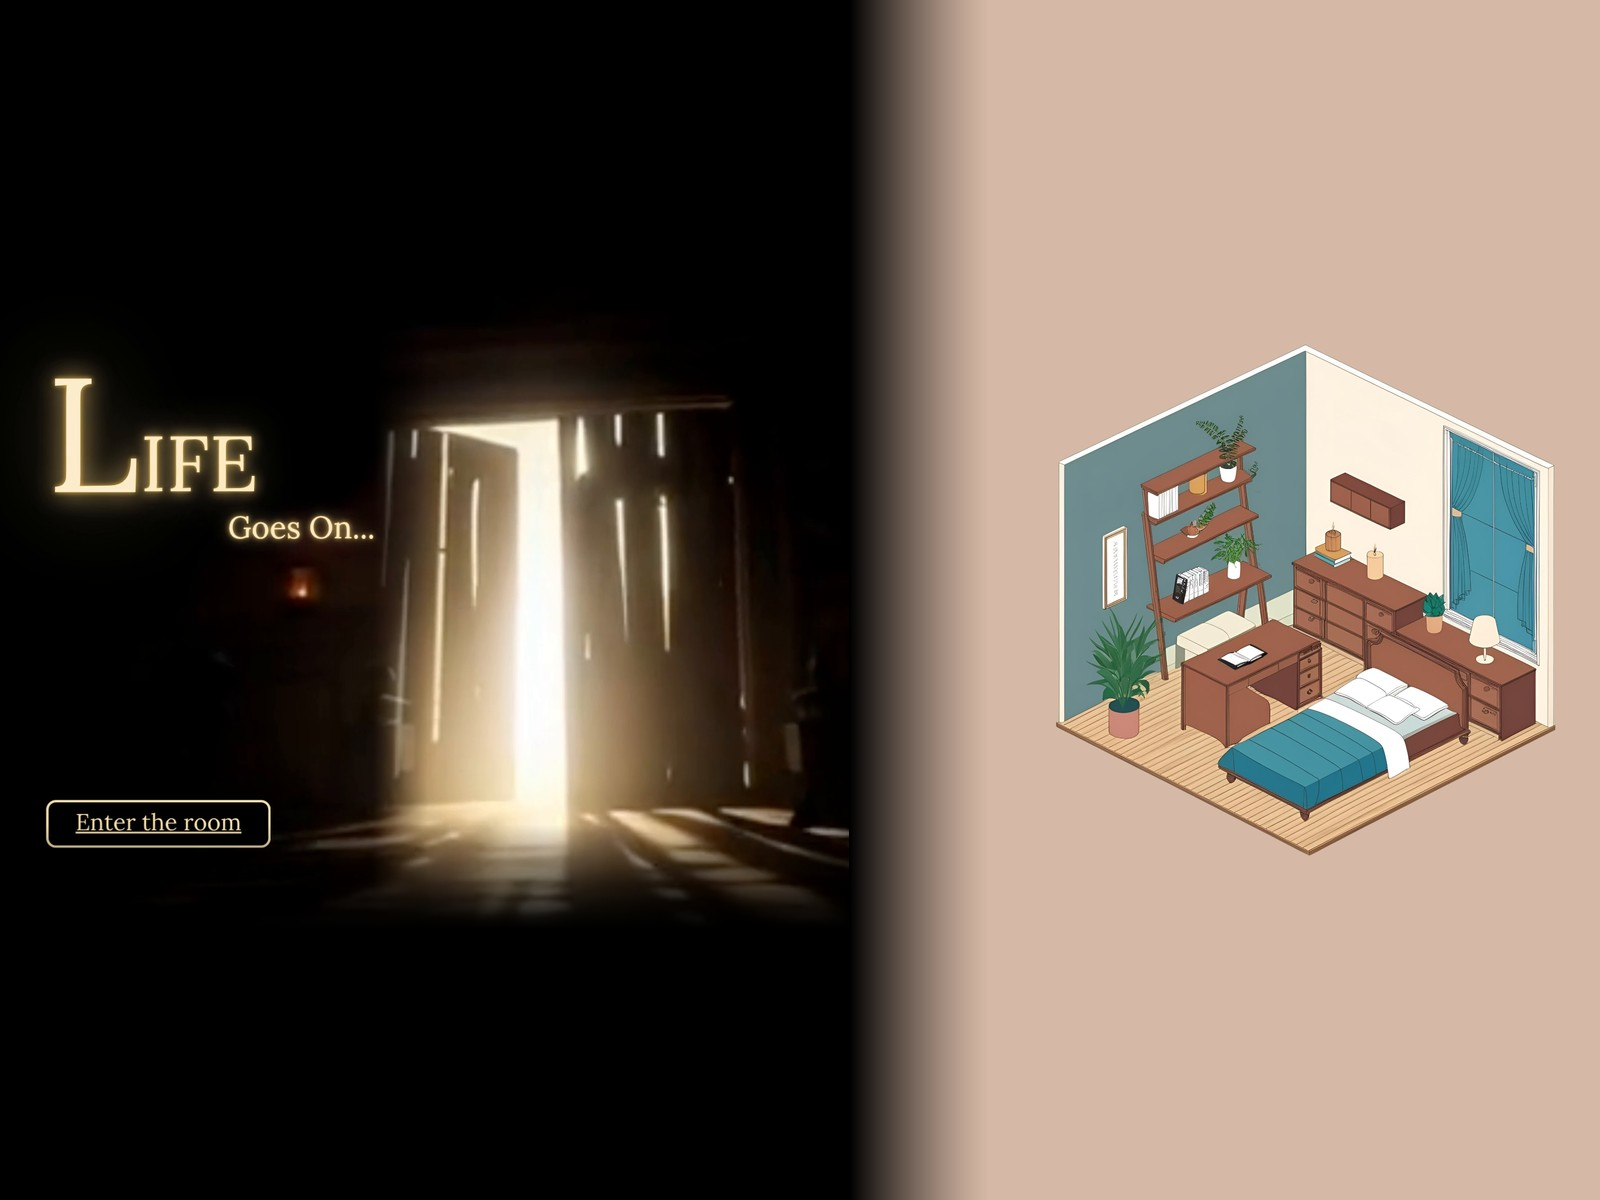
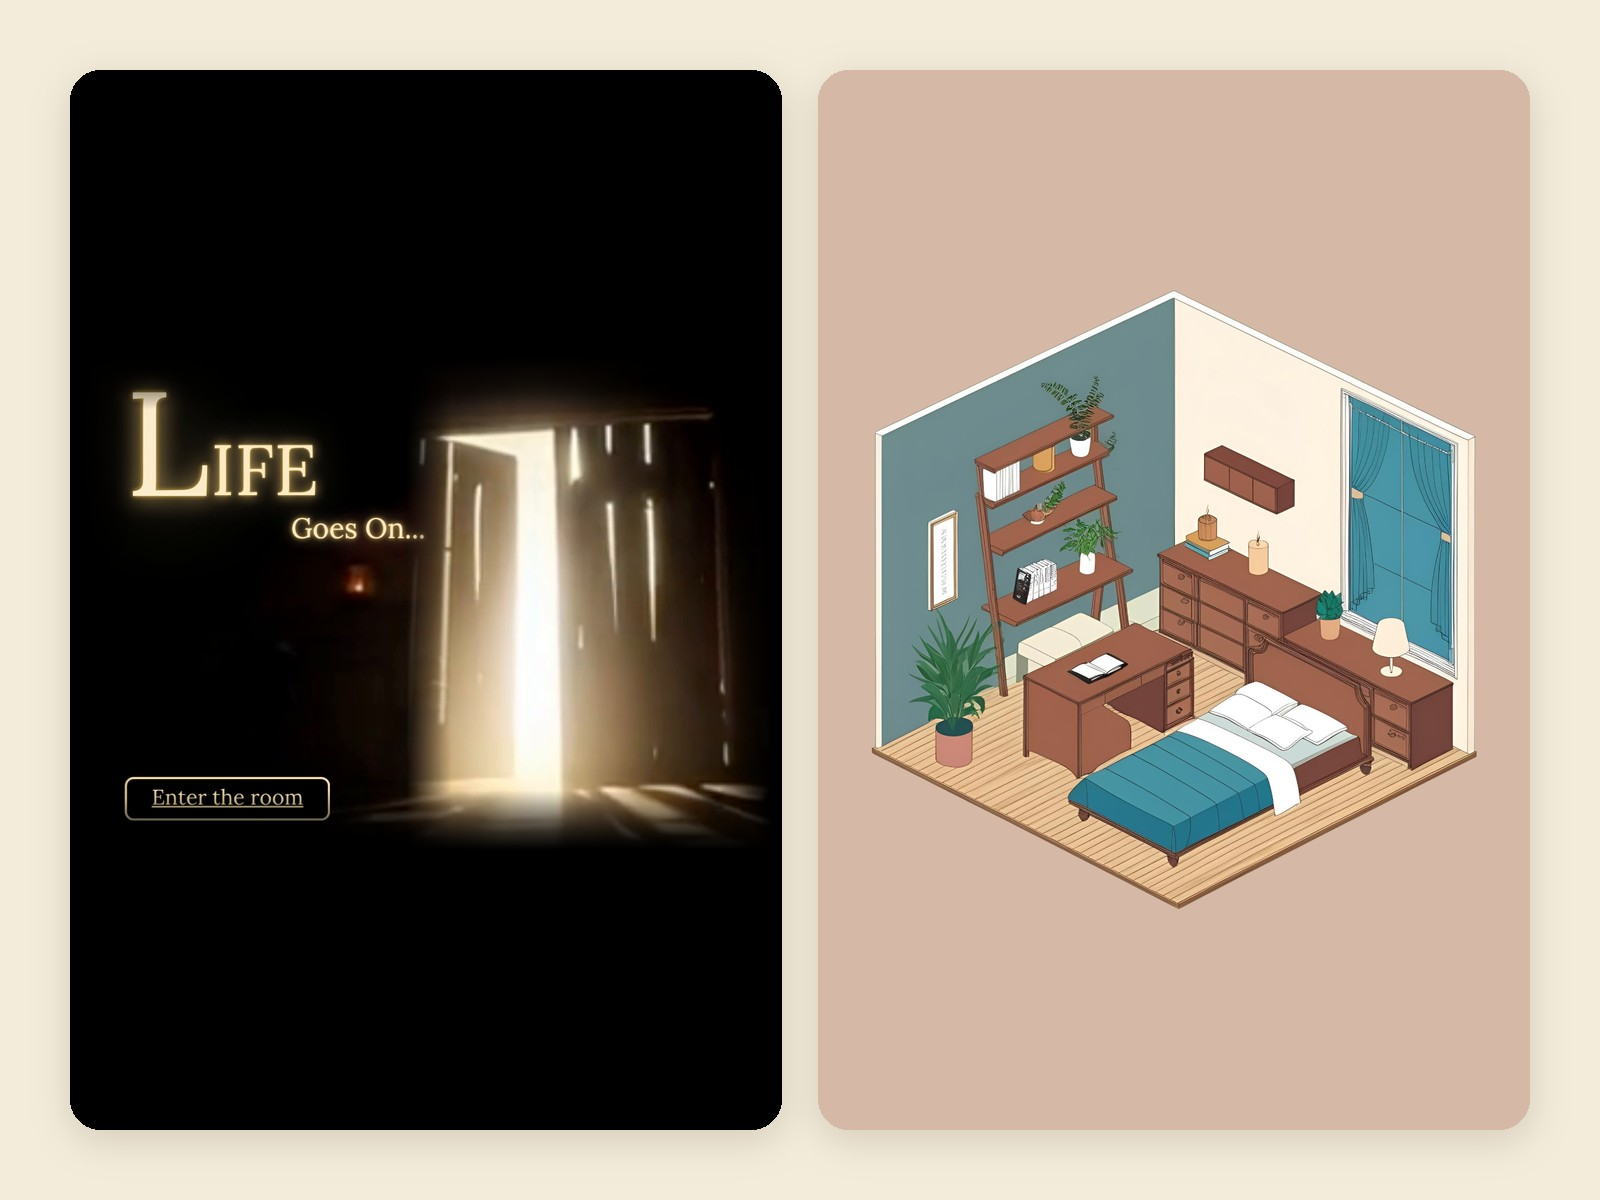
Life Goes On: cover as two clean panels, door of light and clean room
Claude-Session: https://claude.ai/code/session_01X2ebubxArhvCF8kViDJReJ

diff --git a/CLAUDE.md b/CLAUDE.md
@@ -207,7 +207,8 @@ Placeholder projects (all featured), covers in `src/assets/projects/<slug>/cover
    has a subscription; exported files stay clean if it lapses). Cover and
    banner (Afnan's choice): the game's opening frame (glowing title +
    door of light, from her video at 21 s, empty gap between title and door
-   removed) fading into the clean final room on pink. Composed in PIL; do
+   removed) and the clean final room on pink, as two rounded cards side by
+   side on cream (Afnan disliked a soft dark-to-pink fade between them). Composed in PIL; do
    not add text or darken her scenes.
    Case study: Play button (Canva view link — Afnan must set the design to
    "anyone with the link") → stats → Overview → Problem (problem /
